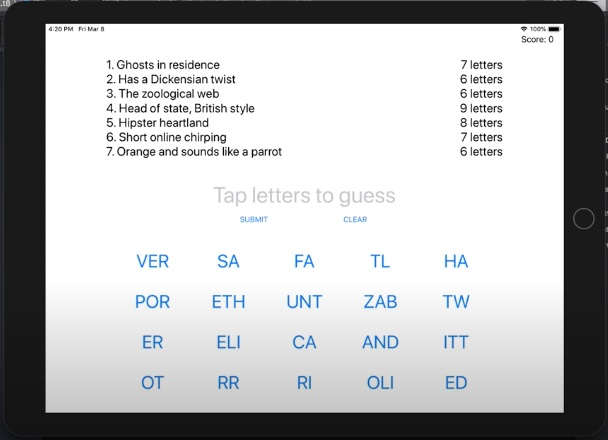
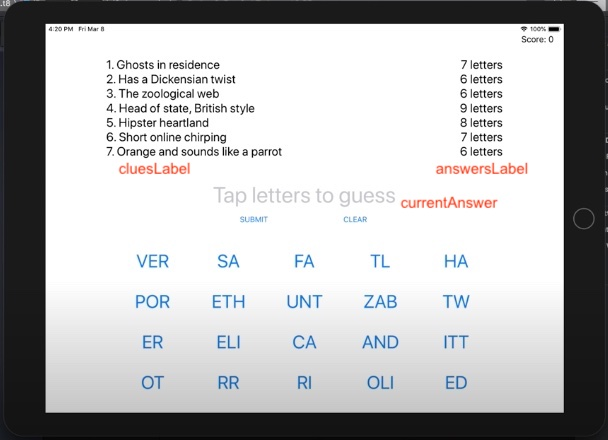
implemented part #4 of the tutorial.

Changed region(s): [[0.7188, 0.3545, 0.875, 0.4136], [0.1875, 0.3545, 0.3125, 0.4136], [0.6562, 0.4432, 0.8125, 0.4727]]

diff --git a/Project8_7SwiftyWords/Project8_7SwiftyWords/Project8_7SwiftyWords/ViewController.swift b/Project8_7SwiftyWords/Project8_7SwiftyWords/Project8_7SwiftyWords/ViewController.swift
@@ -21,6 +21,10 @@ class ViewController: UIViewController {
     
     private var score = 0
     private var level = 1
+}
+
+// MARK: LifeCycle
+extension ViewController {
     
     override func loadView() {
         view = UIView()
@@ -30,11 +34,15 @@ class ViewController: UIViewController {
         addAnswerTextField()
         addConstraintsAndButtons()
     }
+    
     override func viewDidLoad() {
         super.viewDidLoad()
         loadLevel()
     }
-    
+}
+
+// MARK: Leveling
+extension ViewController {
     private func loadLevel() {
         var clueString = ""
         var solutionsString = ""
@@ -65,12 +73,25 @@ class ViewController: UIViewController {
         cluesLabel.text = clueString.trimmingCharacters(in: .whitespacesAndNewlines) // it removes \n or space from the very end of the string
         answersLabel.text = solutionsString.trimmingCharacters(in: .whitespacesAndNewlines)
         
+        letterBits.shuffle()
+        
         if letterButtons.count == letterBits.count {
             for i in 0 ..< letterButtons.count {
                 let button = letterButtons[i]
                 let title = letterBits[i]
                 button.setTitle(title, for: .normal)
             }
+        }
+    }
+    
+    @objc private func levelUp(action: UIAlertAction) {
+        level += 1
+        
+        solutions.removeAll(keepingCapacity: true)
+        loadLevel()
+        
+        for button in letterButtons {
+            button.isHidden = false
         }
     }
 }
@@ -195,15 +216,44 @@ extension ViewController {
 // MARK: - UIButton Actions
 extension ViewController {
     @objc private func letterTapped(_ sender: UIButton) {
+        guard let buttonTitle = sender.titleLabel?.text else { return }
         
+        currentAnswer.text = currentAnswer.text?.appending(buttonTitle)
+        activatedButtons.append(sender)
+        sender.isHidden = true
     }
     
     @objc private func submitTapped(_ sender: UIButton) {
+        guard let answerText = currentAnswer.text else { return }
         
+        if let solutionPosition = solutions.firstIndex(of: answerText) {
+            var splitAnswers = answersLabel.text?.components(separatedBy: "\n")
+            splitAnswers?[solutionPosition] = answerText
+            answersLabel.text = splitAnswers?.joined(separator: "\n")
+            
+            currentAnswer.text = ""
+            score += 1
+            
+            if score % 7 == 0 {
+                let ac = UIAlertController(title: "Well done!",
+                                           message: "Are you ready for the next level?",
+                                           preferredStyle: .alert)
+                ac.addAction(UIAlertAction(title: "Let's go!",
+                                           style: .default,
+                                           handler: levelUp))
+                present(ac, animated: true)
+            }
+        }
     }
     
     @objc private func clearTapped(_ sender: UIButton) {
+        currentAnswer.text = ""
         
+        for button in activatedButtons {
+            button.isHidden = false
+        }
+        
+        activatedButtons.removeAll()
     }
 }
 
